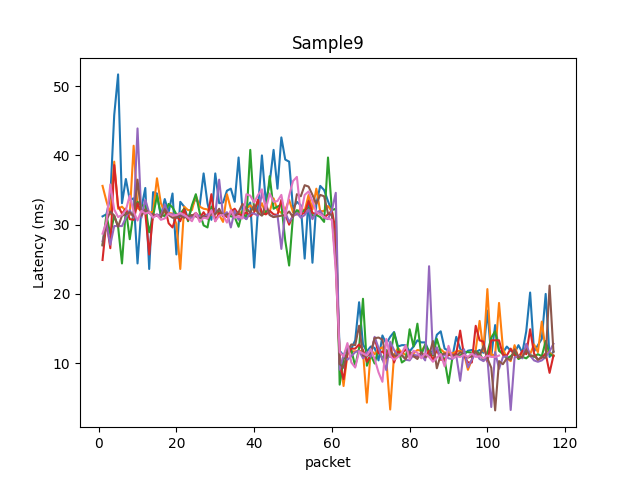
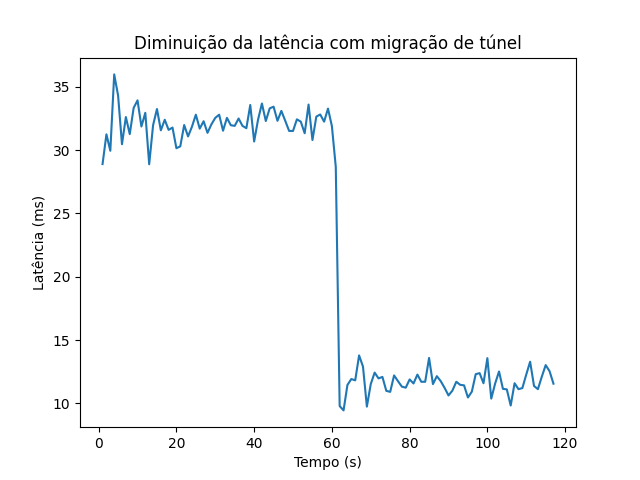
Ajuste no gráfico do teste 1

diff --git a/artigo/test1/grafico.py b/artigo/test1/grafico.py
@@ -1,22 +1,29 @@
 import matplotlib.pyplot as plt
+import numpy
 
-for sample in range(0,10):
-	f=open(f'a{sample}.log')
+y=[]
+x=[]
+for sample in range(0,6):
+	f=open(f'data/a{sample}.log')
 	linhas=f.readlines()
 	f.close()
 
-	y=[]
-	x=[]
-	cont=1
+	cont=0
 	for ms in linhas:
-		x.append(cont)
+		if sample==0:
+			x.append(cont+1)
+			y.append([])
+		y[cont].append(float(ms))
 		cont=cont+1
-		y.append(float(ms))
+m=[]
+d=[]
+for cont in range(0,len(y)):
+	m.append(numpy.mean(y[cont]))
 
-	plt.plot(x, y)
-	plt.xlabel('packet') 
-	plt.ylabel('Latency (ms)') 
-	plt.title(f'Sample{sample}')
-	print(f'a{sample}: OK')
+#plt.errorbar(x,m,yerr=d, fmt='-')
+plt.plot(x, m)
+plt.xlabel('Tempo (s)') 
+plt.ylabel('Latência (ms)') 
+plt.title('Diminuição da latência com migração de túnel')
 plt.savefig(f'test1.png')
 
